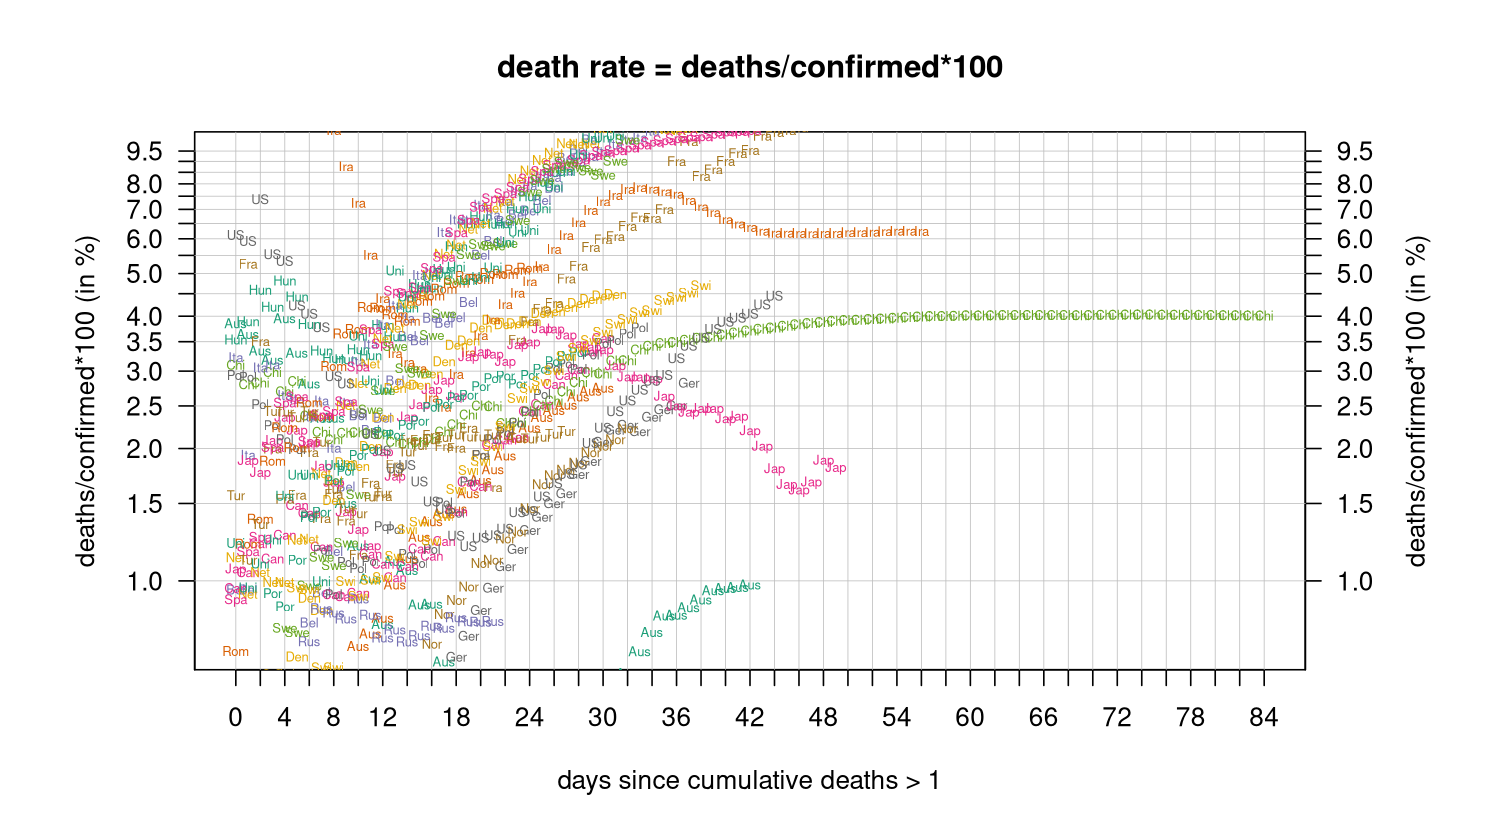
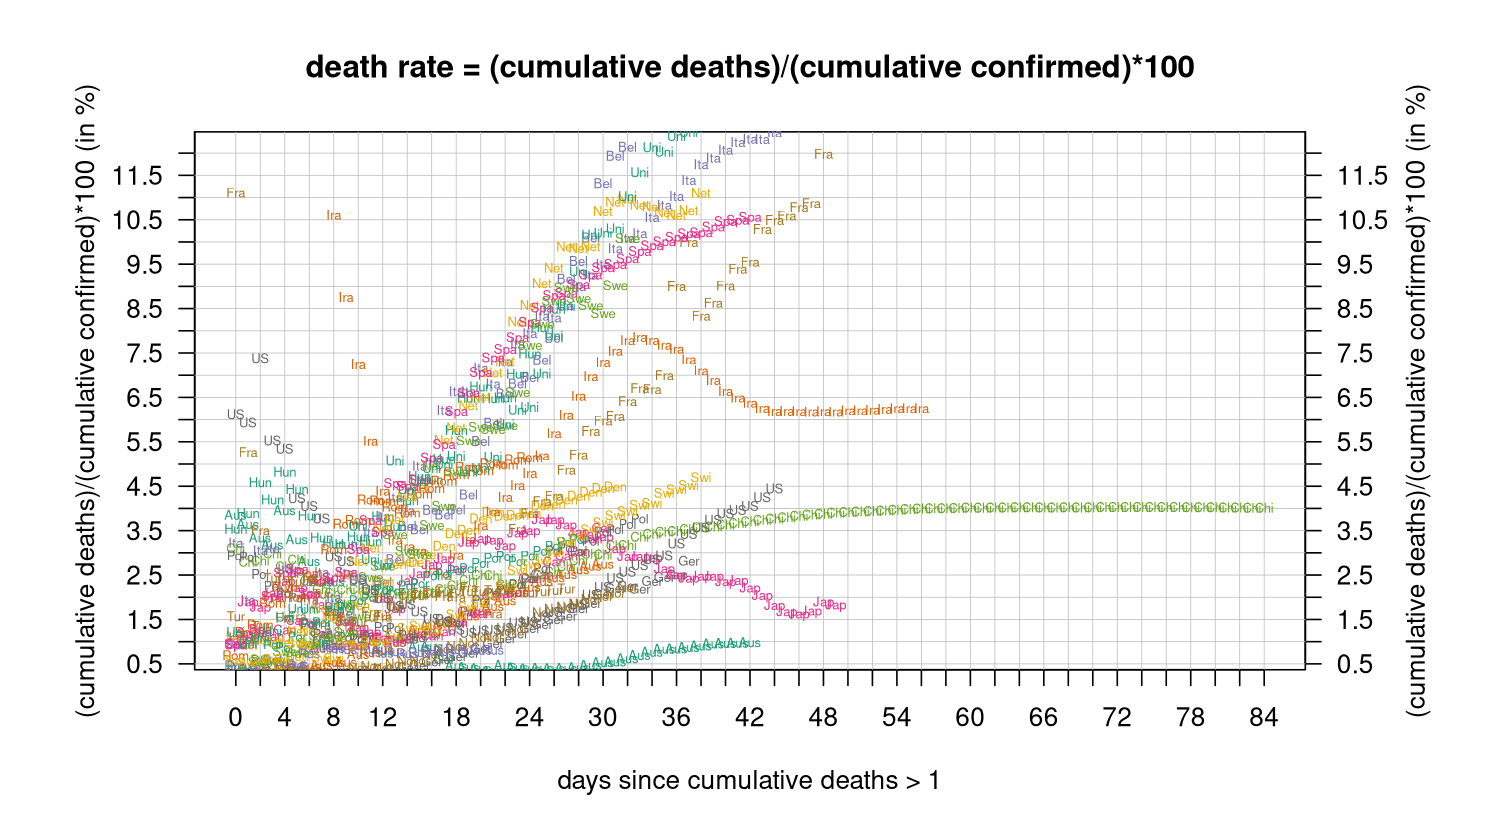
updated death rate

Changed region(s): [[0.0307, 0.0936, 0.9507, 0.8427], [0.184, 0.0624, 0.7973, 0.0936]]

diff --git a/r_plots/README.md b/r_plots/README.md
@@ -7,7 +7,7 @@
 
 # death rate evolution
 
-<img align="center" width="1000" src="plots/death_per_confirmed.png">
+<img align="center" width="1000" src="plots/death_per_confirmed_logy.png">
 
 # Select country
 
